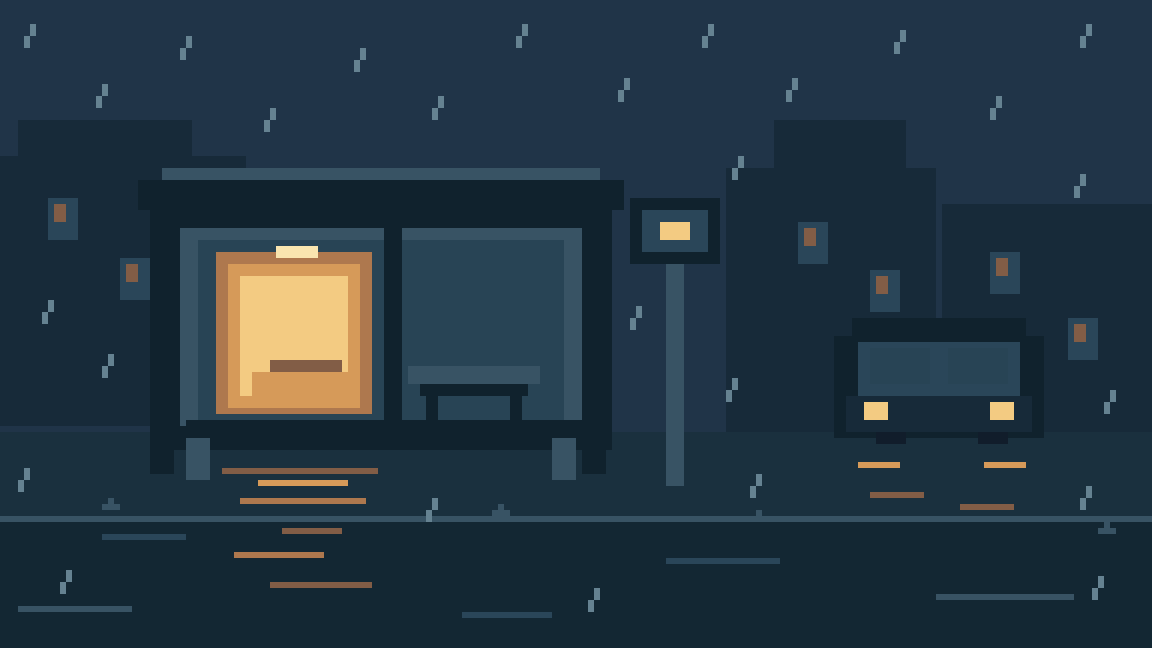
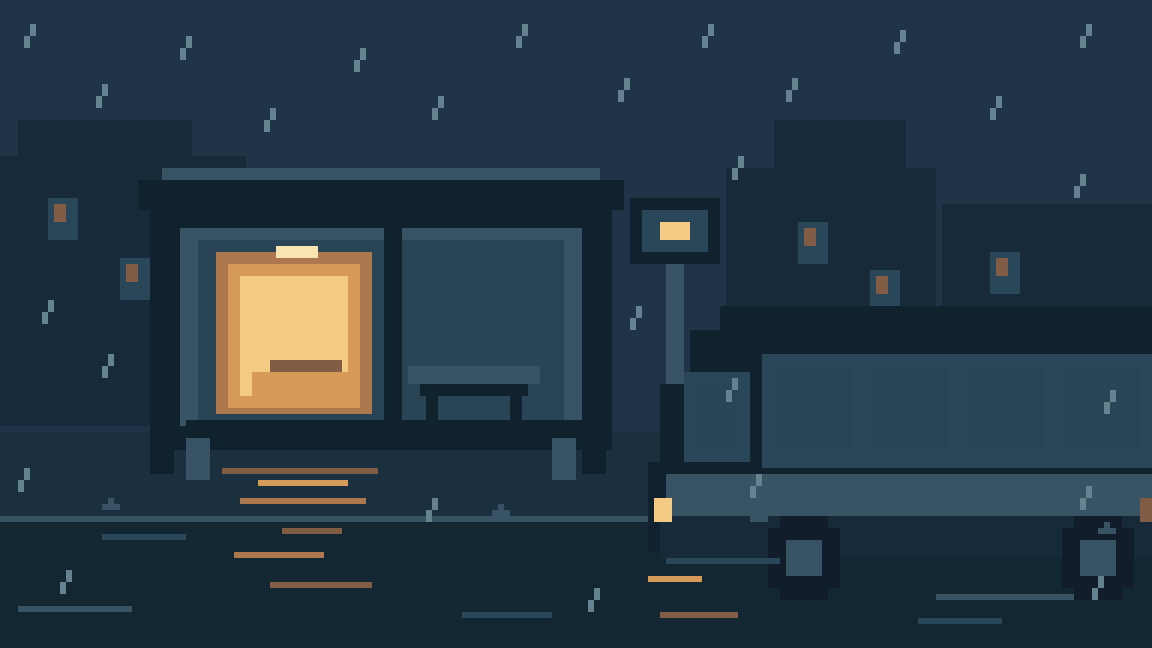
픽셀 정류장 버스의 위치와 크기 수정

diff --git a/pixel-busstop/draw.py b/pixel-busstop/draw.py
@@ -12,10 +12,6 @@ for x,y in [(8,33),(20,43),(36,48),(133,37),(145,45),(165,42),(178,53)]:
  rect((x,y,x+4,y+6),'haze'); rect((x+1,y+1,x+2,y+3),'dim')
 # Wet pavement and road
 rect((0,72,191,86),'wet'); rect((0,87,191,107),'road'); line([(0,86),(191,86)],'edge')
-# Distant bus approaching at right: compact distinct silhouette, twin lamps.
-rect((139,56,173,72),'roof'); rect((142,53,170,57),'roof'); rect((143,57,169,65),'haze')
-rect((145,58,154,63),'glass'); rect((158,58,167,63),'glass'); rect((141,66,171,71),'building')
-rect((144,67,147,69),'light'); rect((165,67,168,69),'light'); rect((146,72,150,73),'night'); rect((163,72,167,73),'night')
 # The shelter: a large warm window framed in dark steel.
 rect((26,34,101,74),'roof'); rect((30,38,96,70),'edge'); rect((33,40,93,69),'glass')
 rect((36,42,61,68),'glow'); rect((38,44,59,67),'amber'); rect((40,46,57,65),'light')
@@ -28,8 +24,21 @@ rect((64,38,66,70),'roof'); rect((31,70,96,72),'roof'); rect((31,73,34,79),'edge
 rect((68,61,89,63),'edge'); rect((70,64,87,65),'roof'); rect((71,66,72,70),'roof'); rect((85,66,86,70),'roof')
 # Stop pole and deliberately abstract unlettered sign.
 rect((111,37,113,80),'edge'); rect((105,33,119,43),'roof'); rect((107,35,117,41),'haze'); rect((110,37,114,39),'light')
+# Foreground bus, seen from the side. The left-facing front approaches the stop.
+# Drawn after the shelter and pole, so the road vehicle overlaps them in depth.
+rect((115,55,191,91),'roof'); rect((120,51,191,58),'roof')
+rect((110,64,119,91),'roof'); rect((108,77,113,91),'roof')
+rect((114,62,124,76),'haze'); rect((116,64,122,74),'glass')
+rect((127,59,191,77),'haze')
+for x in (129,145,161,177): rect((x,61,x+12,74),'glass')
+# Lower body and thin belt line.
+rect((111,79,191,88),'edge'); rect((110,86,191,92),'building')
+rect((109,83,111,86),'light'); rect((190,83,191,86),'dim')
+# Wheels contact the near road; their arches interrupt the lower body.
+for x in (128,177):
+ rect((x,88,x+11,97),'night'); rect((x+2,86,x+9,99),'night'); rect((x+3,90,x+8,95),'edge')
 # Ground reflections: restrained bands and broken lines.
-for box,c in [((37,78,62,78),'dim'),((43,80,57,80),'amber'),((40,83,60,83),'glow'),((47,88,56,88),'dim'),((39,92,53,92),'glow'),((45,97,61,97),'dim'),((143,77,149,77),'amber'),((164,77,170,77),'amber'),((145,82,153,82),'dim'),((160,84,168,84),'dim'),((17,89,30,89),'haze'),((111,93,129,93),'haze'),((3,101,21,101),'edge'),((77,102,91,102),'haze'),((156,99,178,99),'edge')]: rect(box,c)
+for box,c in [((37,78,62,78),'dim'),((43,80,57,80),'amber'),((40,83,60,83),'glow'),((47,88,56,88),'dim'),((39,92,53,92),'glow'),((45,97,61,97),'dim'),((108,96,116,96),'amber'),((110,102,122,102),'dim'),((153,103,166,103),'haze'),((17,89,30,89),'haze'),((111,93,129,93),'haze'),((3,101,21,101),'edge'),((77,102,91,102),'haze'),((156,99,178,99),'edge')]: rect(box,c)
 # Diagonal rain marks, manually placed to avoid obscuring focal shapes.
 for x,y in [(5,4),(17,14),(31,6),(45,18),(60,8),(73,16),(87,4),(104,13),(118,4),(132,13),(150,5),(166,16),(181,4),(8,50),(18,59),(106,51),(123,26),(180,29),(185,65),(122,63),(4,78),(126,79),(181,81),(72,83),(11,95),(99,98),(183,96)]: line([(x,y),(x-1,y+3)],'rain')
 # A couple of splashes make the still scene feel inhabited by weather.

diff --git a/pixel-busstop/README.md b/pixel-busstop/README.md
@@ -17,3 +17,7 @@
 실제 게임 화면이 아니라 별도로 그린 정지 이미지이며, 외부 스프라이트를 사용하지 않았다.
 
 실행에는 Python과 Pillow가 필요하며 `python draw.py`는 같은 폴더의 두 PNG를 덮어쓴다. 보존할 이미지가 있다면 별도 복사본에서 실행한다.
+
+## 배치 수정
+
+버스를 정류장 쪽을 향한 옆모습으로 그리고, 바퀴와 불빛 반사를 연석 아래 차도에 놓았다. 버스가 앞 도로에서 정류장 표지판 일부를 가린다. 이전 버전은 Git 이력에 남아 있다. 원본 격자와 팔레트, 확대 방식은 그대로다.

diff --git a/GALLERY.md b/GALLERY.md
@@ -184,7 +184,7 @@
 
 ## 18. 비 오는 밤의 정류장 · 08 정류장
 
-따뜻한 정류장 창과 저편에서 다가오는 버스의 두 불빛을 작은 픽셀로 그렸습니다.
+따뜻한 정류장 창과 앞 도로를 지나는 버스의 옆모습을 작은 픽셀로 그렸습니다.
 
 ![비 오는 밤의 정류장 — 원본 192×108을 최근접 방식으로 6배 확대한 픽셀아트](pixel-busstop/busstop_6x.png)
 
